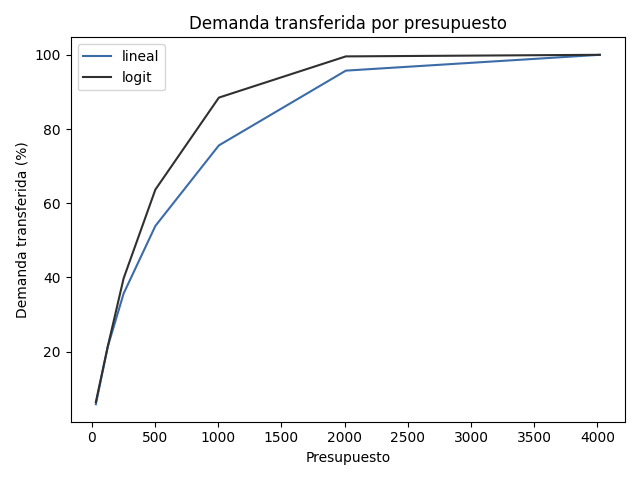
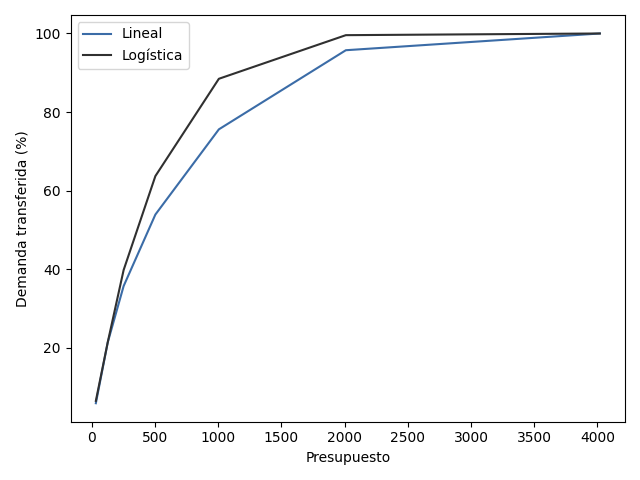
fixes in sensibility analysis script

diff --git a/thesis/doc/document.tex b/thesis/doc/document.tex
@@ -840,7 +840,7 @@
 
   \begin{figure}[h!]
     \centering
-    \includegraphics[width=8cm]{../resources/f_catalog.png}
+    \includegraphics[width=10cm]{../resources/f_catalog.png}
       \caption{Catálogo de funciones usadas para modelar la transferencia de demanda a la bicicleta. El valor de $m$ varía según la tecnología de ciclovía utilizada y equivale a la proporción mínima alcanzada por la mejor tecnología utilizada, es decir $m = min_{i \in I} \{ C_{infra}(i) \}$.}
     \label{fig:fcatalog}
   \end{figure}
@@ -965,7 +965,7 @@
   \FloatBarrier
   \subsubsection*{Casos particulares}
 
-  Como caso interesante de comparación vamos a discutir cómo afecta la cantidad de puntos de quiebre a la decisiones de cuales tecnologías construir. Comparamos las instancias 11, 12 y 13, que utilizan la función lineal de transferencia de demanda con 5, 20 y 50 puntos de quiebre respectivamente y un factor de presupuesto de 40\%. Más datos específicos de cada instancia se pueden apreciar en la Tabla \ref{table:sensibilityinfralengths} y Figura \ref{fig:sensibilityinstance11_12_13}. Observamos que a mayor cantidad de puntos de quiebre más inteligentes son las decisiones tomadas. Por ejemplo, en la instancia 11 la mitad del acotado presupuesto se invirtió en poco cubrimiento de calles utilizando la tecnología 3 mientras que en la 12 y 13 el gasto en esta tecnología sólo fue el 12\%. En las instancias 12 y 13 la mayor parte del gasto se hizo en tecnología 2 que para el nivel de presupuesto y función de transferencia de demanda parece ser la más eficiente. En particular, los datos de porcentaje del largo total de las calles cubierto desglosado por tipo de tecnología nos da una idea general de la demanda afectada, al ser esta instancia altamente densa y uniforme en términos de orígenes y destinos, como se observa en la Figura \ref{fig:sioux_falls_demand}.
+  Vamos a analizar en detalle algunos casos particulares y discutir cómo afecta la cantidad de puntos de quiebre a la decisiones de cuales tecnologías construir. Comparamos las instancias 11, 12 y 13, que utilizan la función lineal de transferencia de demanda con 5, 20 y 50 puntos de quiebre respectivamente y un factor de presupuesto de 40\%. Más datos específicos de cada instancia se pueden apreciar en la Tabla \ref{table:sensibilityinfralengths} y Figura \ref{fig:sensibilityinstance11_12_13}. Observamos que a mayor cantidad de puntos de quiebre más inteligentes son las decisiones tomadas. Por ejemplo, en la instancia 11 la mitad del acotado presupuesto se invirtió en poco cubrimiento de calles utilizando la tecnología 3 mientras que en la 12 y 13 el gasto en esta tecnología sólo fue el 12\%. En las instancias 12 y 13 la mayor parte del gasto se hizo en tecnología 2 que para el nivel de presupuesto y función de transferencia de demanda parece ser la más eficiente. En particular, los datos de porcentaje del largo total de las calles cubierto desglosado por tipo de tecnología nos da una idea general de la demanda afectada, al ser esta instancia altamente densa y uniforme en términos de orígenes y destinos, como se observa en la Figura \ref{fig:sioux_falls_demand}.
 
   Si observamos los datos de demanda transferida y costo de camino más corto, Figura \ref{fig:sensibilitybyodpair_11_12_13}, vemos que a mayor cantidad de puntos de quiebre mayor es la cantidad de pares origen-destino afectada aunque en general las decisiones de cuáles pares origen-destino y cuánto mejorarlos no fue muy diferente entre instancias.
 

diff --git a/scripts/processsensitivity.py b/scripts/processsensitivity.py
@@ -25,6 +25,15 @@ def get_solution_path(model_path):
     return os.path.join(dirname, f'solution_{name}.pkl')
 
 
+def get_function_readable_name(function_name):
+    return {
+        'lineal': 'Lineal',
+        'concave up': 'Concavidad positiva',
+        'concave down': 'Concavidad negativa',
+        'logit': 'Logística',
+    }.get(function_name, 'Unknown')
+
+
 def get_function_name(model_name):
     """
     Return demand transfer function
@@ -82,6 +91,9 @@ def get_row_from_model(model_path, model, solution, total_demand):
     if gap:
         gap *= 100
 
+    function_name = get_function_name(model_name)
+    function_readable_name = get_function_readable_name(function_name)
+
     return {
         'name': model_name,
         'total_demand_transfered': solution.total_demand_transfered,
@@ -92,7 +104,8 @@ def get_row_from_model(model_path, model, solution, total_demand):
         'budget_factor': model._budget_factor,
         'budget_used': solution.budget_used,
         'breakpoint_count': len(model.breakpoints),
-        'transfer_function': get_function_name(model_name),
+        'transfer_function': function_name,
+        'transfer_function_name': function_readable_name,
         'run_time_seconds': int(solution.run_time_seconds),
         'run_time_seconds_str': format_run_time_seconds(solution.run_time_seconds),
         'did_timeout': did_timeout,
@@ -224,6 +237,9 @@ def summarize_solutions_to_csv(output_file, instances):
             for entry in solution.data.demand_transfered
         ]
 
+        function_name = get_function_name(model_name)
+        function_readable_name = get_function_readable_name(function_name)
+
         return OrderedDict(
             cost_by_infra +
             length_covered_by_infra +
@@ -236,7 +252,8 @@ def summarize_solutions_to_csv(output_file, instances):
                 ('breakpoint_count', len(model.breakpoints)),
                 ('total_demand_transfered', solution.total_demand_transfered),
                 ('name', model_name),
-                ('transfer_function', get_function_name(model_name)),
+                ('transfer_function', function_name),
+                ('transfer_function_name', function_readable_name),
             ]
         )
 
@@ -285,11 +302,10 @@ def draw_budget_used_by_infrastructure(budget_use_df, output_path):
             width=0.75,
             bottom=bottom,
             color=bc.draw.default_infra_colors[infra_num - 1],
-            label=f'Infra. {infra_num}',
+            label=f'Tecn. {infra_num}',
         )
         bottom += current
 
-    ax.set_title('Presupuesto utilizado por infraestructura')
     ax.set_ylabel('Distribución del presupuesto utilizado')
     yticks = list(range(10, 101, 10))
     ax.set_yticks(yticks)
@@ -318,10 +334,9 @@ def draw_demand_transfered_by_budget(
             df.budget,
             df.total_demand_transfered_percentage,
             color=colors[index],
-            label=function_name,
+            label=get_function_readable_name(function_name),
         )
 
-    ax.set_title(f'Demanda transferida por presupuesto')
     ax.set_xlabel('Presupuesto')
     ax.set_ylabel('Demanda transferida (%)')
     ax.legend()

diff --git a/scripts/docresources.py b/scripts/docresources.py
@@ -27,7 +27,7 @@ def draw_f_shapes():
         happy,
     ]
     names = [
-        'Linear',
+        'Lineal',
         'Logística',
         'Concavidad negativa',
         'Concavidad positiva',
@@ -96,7 +96,8 @@ def draw_f_example():
     ax.set_yticklabels([format(d, '.2f') for d in demand * np.array(ys)])
     ax.set_xticks(xs)
 
-    ax.set_xlabel('Q - Proporción de mejoras sobre el costo del camino más corto base')
+    ax.set_xlabel(
+        'Q - Proporción de mejoras sobre el costo del camino más corto base')
     ax.set_ylabel('P - Demanda transferida')
     ax.legend()
 
